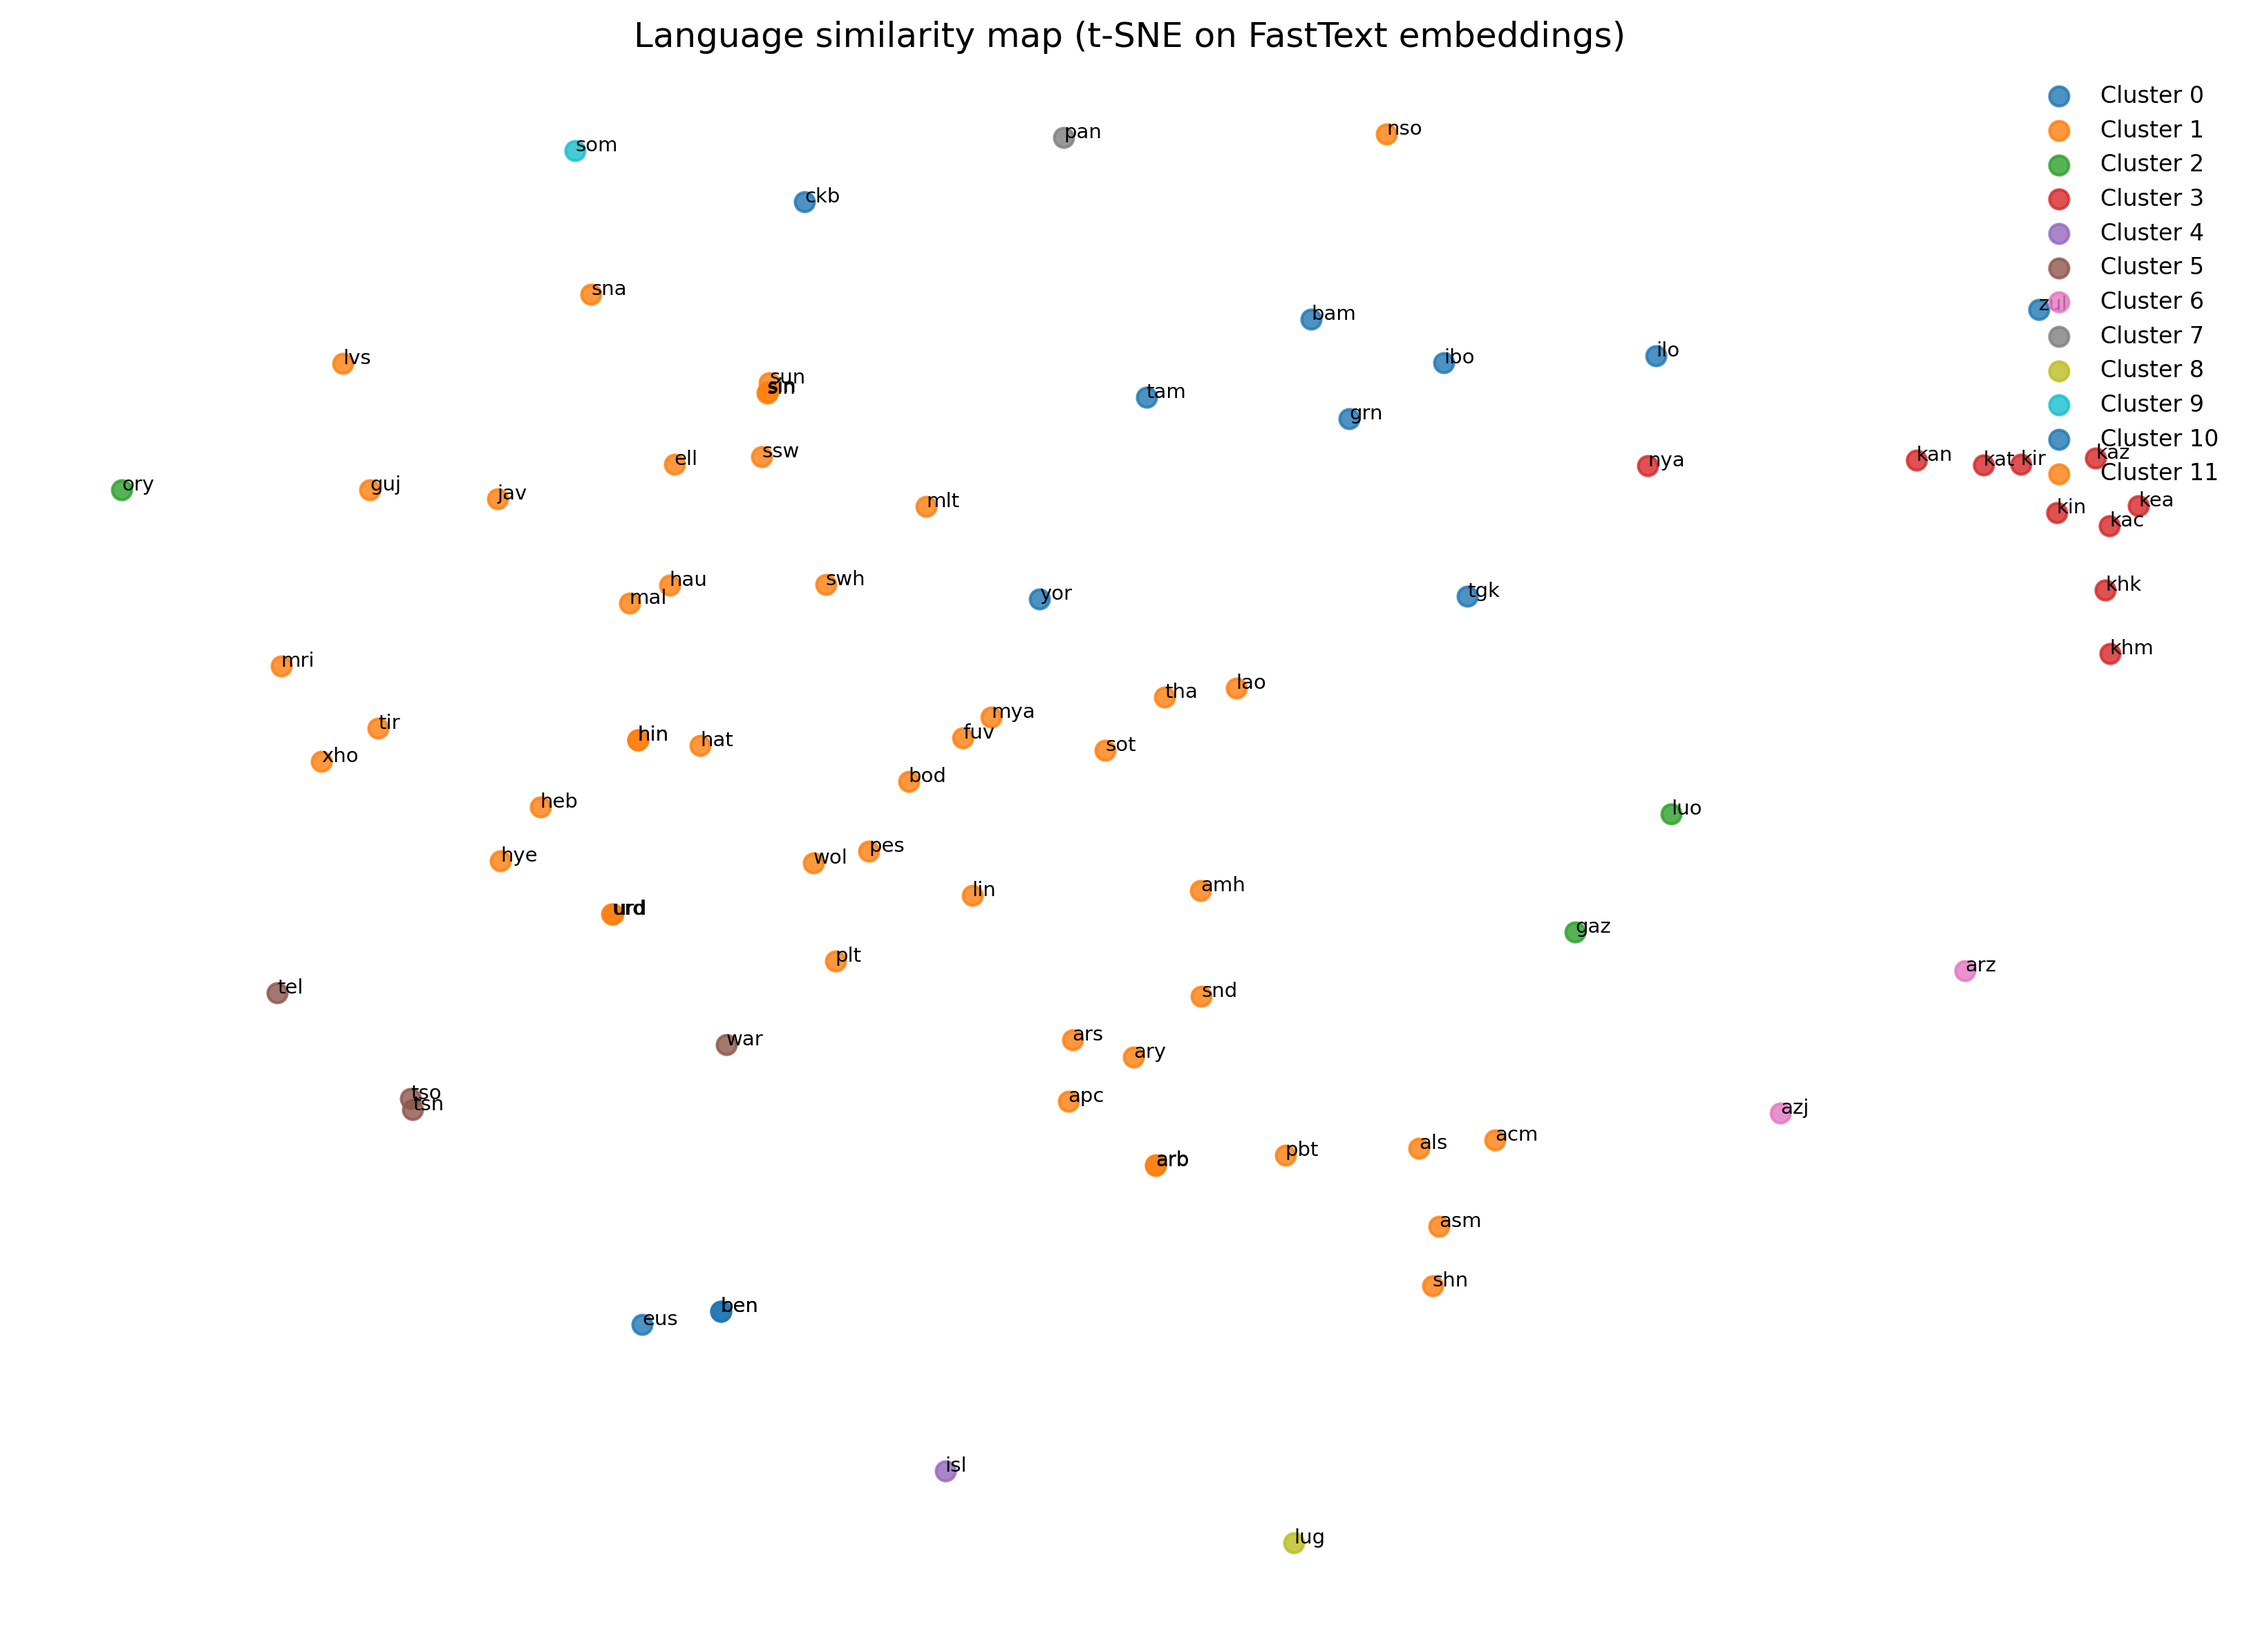
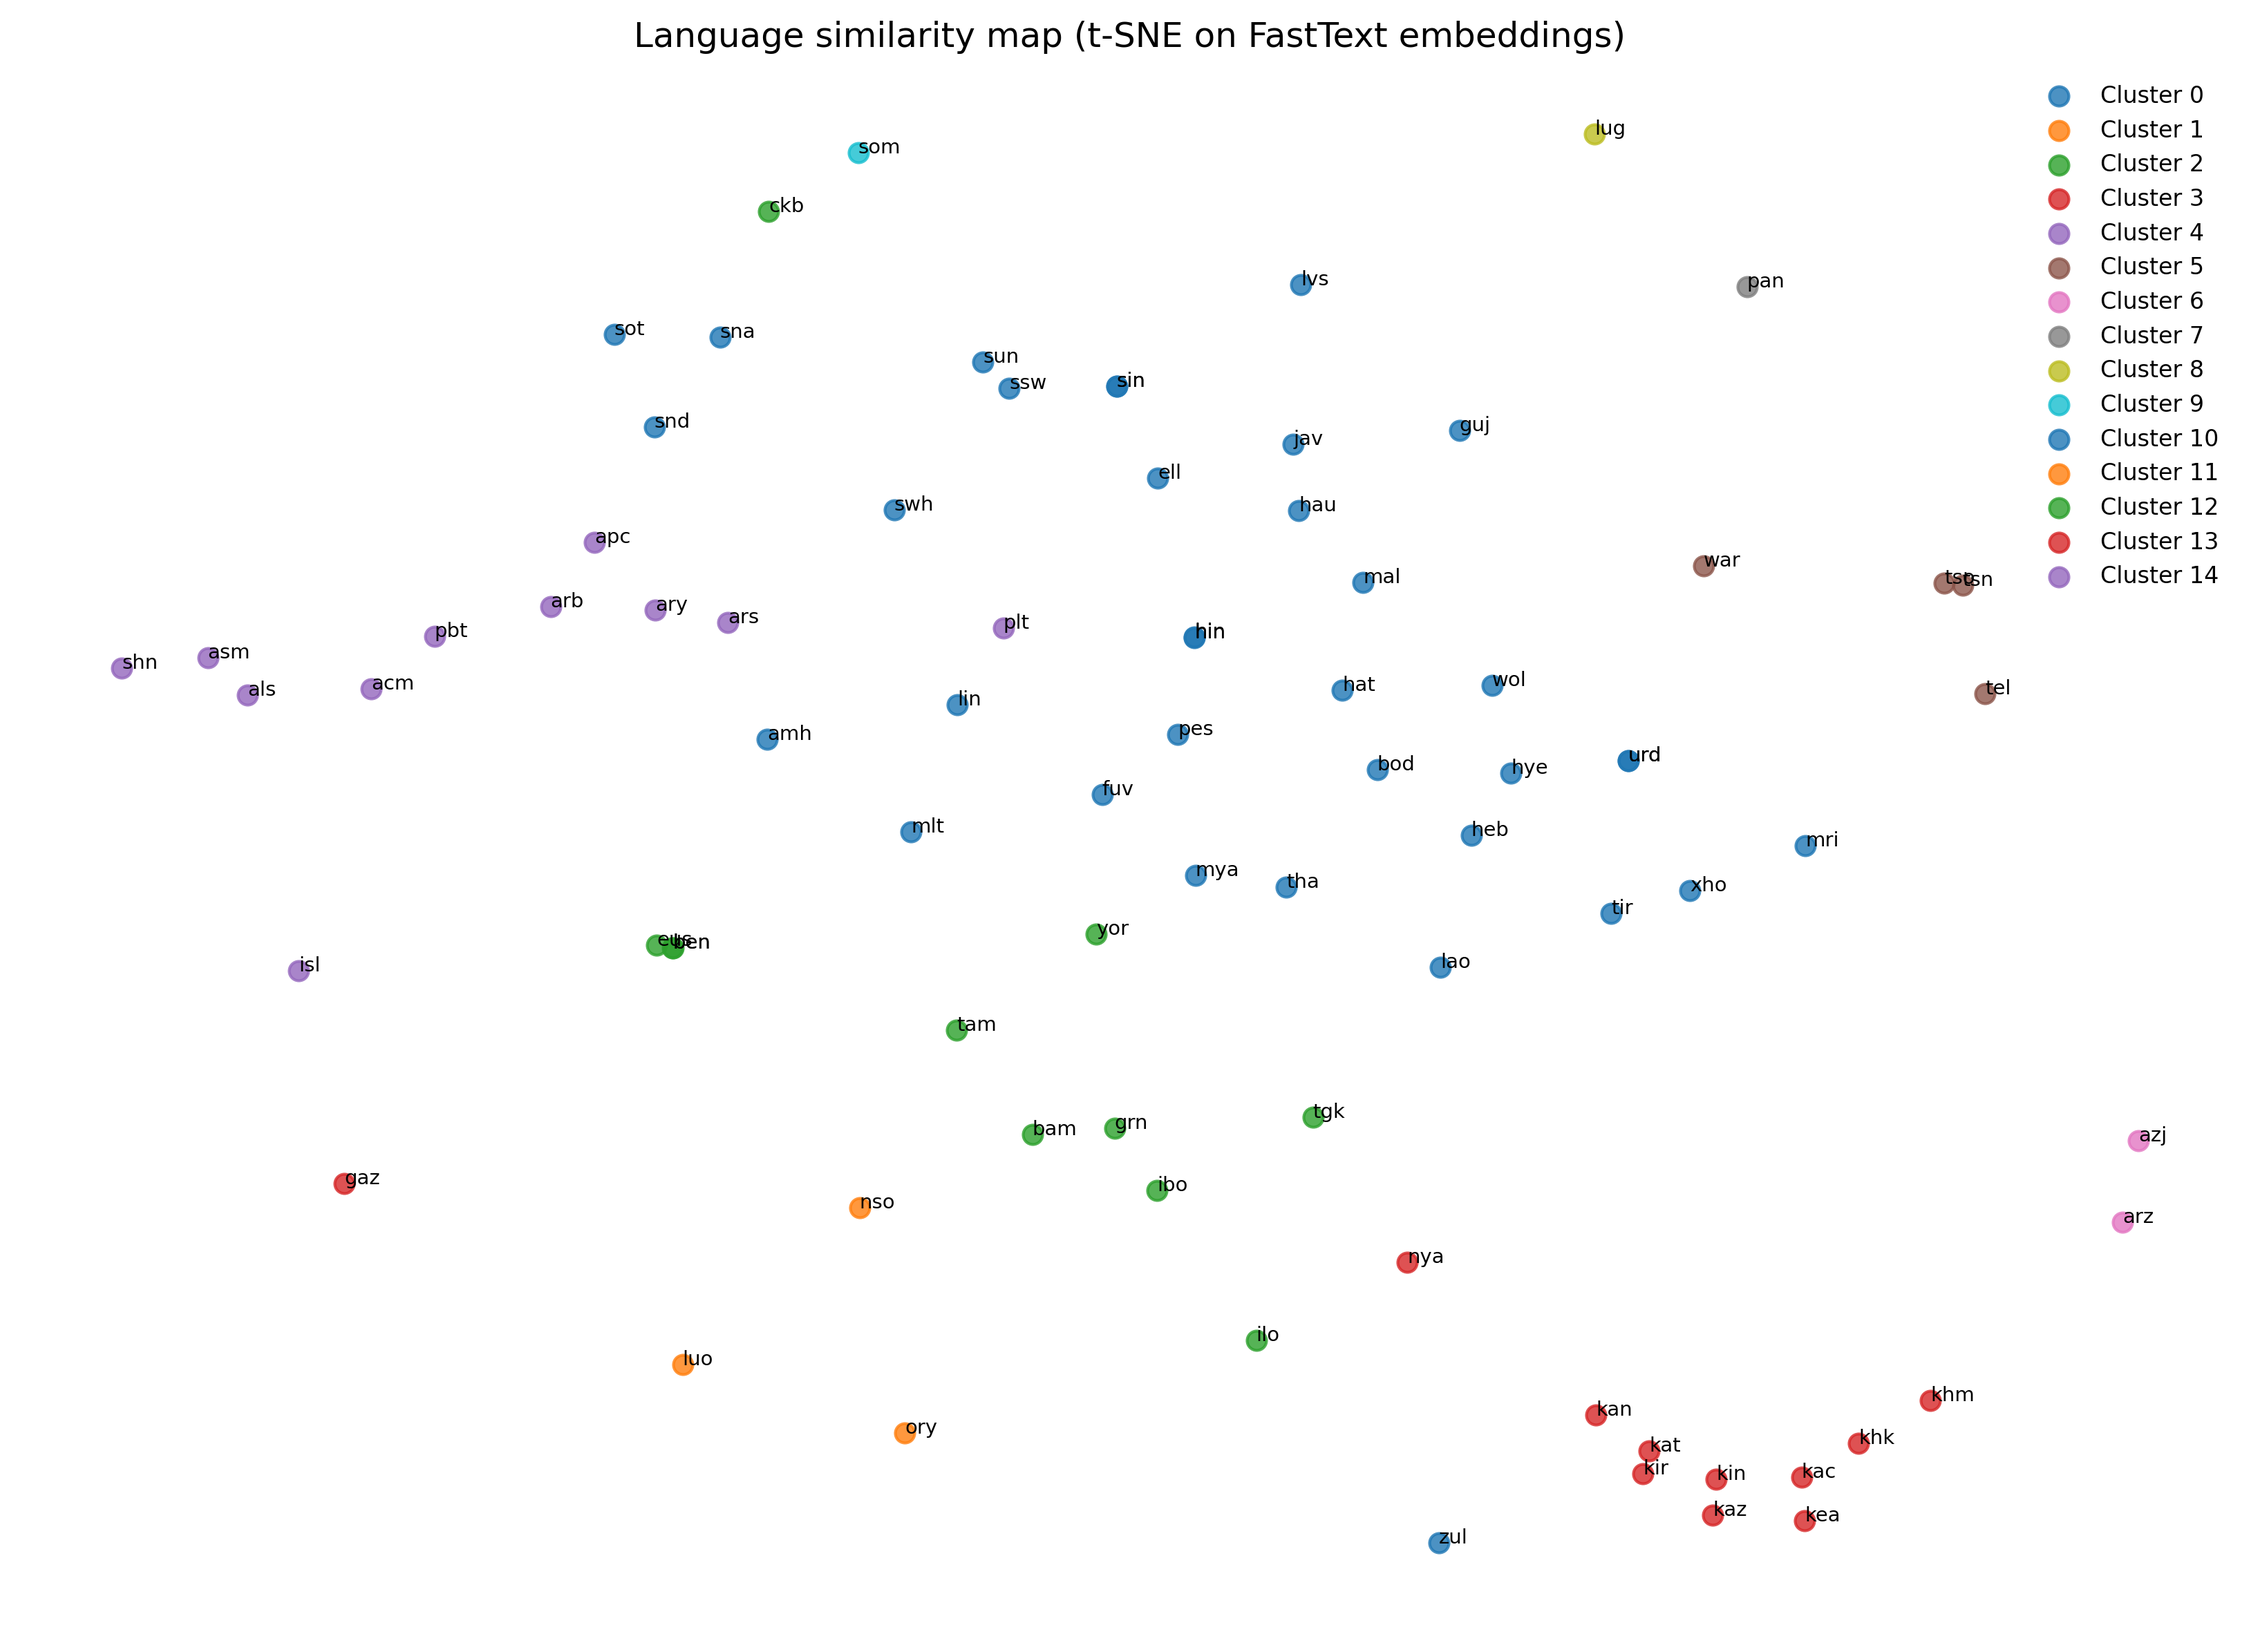
saving progress of ambigious lang clustering results

diff --git a/language_adapters/data_analysis/lang2vec_analysis.py b/language_adapters/data_analysis/lang2vec_analysis.py
@@ -1,16 +1,23 @@
 import numpy as np
 import pandas as pd
 from pathlib import Path
+import matplotlib.pyplot as plt
+from sklearn.preprocessing import StandardScaler
+from sklearn.metrics import silhouette_score
+from sklearn.cluster import AgglomerativeClustering
+from sklearn.manifold import TSNE
 from lang2vec.lang2vec import get_features, available_languages
-from sklearn.metrics.pairwise import cosine_similarity
-
 import logging
+
+# Setup logging
 logging.basicConfig(level=logging.INFO, format="%(message)s")
 log = logging.info
 
+# Setup cache directory
 cache = Path("lang2vec_cache")
 cache.mkdir(exist_ok=True)
 
+# Define language codes
 codes = """kat_Geor yor_Latn lao_Laoo xho_Latn zul_Latn kan_Knda pan_Guru tso_Latn pbt_Arab
 tel_Telu tgk_Cyrl urd_Latn nya_Latn sna_Latn swh_Latn fuv_Latn ibo_Latn jav_Latn
 sin_Latn arb_Latn khm_Khmr ary_Arab bod_Tibt hat_Latn heb_Hebr kac_Latn khk_Cyrl
@@ -20,19 +27,24 @@ eus_Latn shn_Mymr amh_Ethi gaz_Latn hye_Armn kaz_Cyrl lin_Latn sot_Latn war_Latn
 ben_Beng ben_Latn hin_Latn mya_Mymr apc_Arab arz_Arab mal_Latn som_Latn arb_Arab
 asm_Beng bam_Latn ckb_Arab kea_Latn mlt_Latn pes_Arab ars_Arab isl_Latn urd_Arab
 azj_Latn ell_Grek lvs_Latn tha_Thai tir_Ethi als_Latn kir_Cyrl lug_Latn acm_Arab"""
-langs = sorted({c.split('_')[0] for c in codes.split() if c.split('_')[0] in available_languages()})
+
+# Extract language codes
+available = set(available_languages())
+langs = sorted({c.split('_')[0] for c in codes.split() if c.split('_')[0] in available})
 sets = ("syntax_wals", "syntax_sswl")
 
+# Helper to load or cache data
 def load_or_make(fname, maker):
     path = cache / fname
     if path.exists():
-        log(f"from precomputed: {fname}")
+        log(f"Loaded cached: {fname}")
         return pd.read_csv(path, index_col=0)
-    log(f"use cached data: {fname}")
+    log(f"Creating: {fname}")
     df = maker()
     df.to_csv(path)
     return df
 
+# Fetch features
 raw = {}
 for s in sets:
     raw[s] = load_or_make(f"{s}_raw.csv", lambda s=s: pd.DataFrame({
@@ -40,15 +52,62 @@ for s in sets:
         for l in langs
     }).T)
 
-# Combine, clean, impute
+# Combine and clean data
 vecs_raw = load_or_make("combined_raw.csv", lambda: pd.concat(raw.values(), axis=1))
 vecs_raw = vecs_raw.loc[:, ~vecs_raw.isna().all()]
-vecs_imp = load_or_make("combined_imputed.csv", lambda: vecs_raw.fillna(vecs_raw.mean()))
+filtered = vecs_raw[vecs_raw.isna().mean(axis=1) < 0.5]
+filtered = filtered.loc[:, filtered.isna().mean() < 0.5]
+vecs = filtered.fillna(filtered.mean())
 
-# Compute similarity
-sim_df = load_or_make("similarity_cosine.csv", lambda: pd.DataFrame(
-    cosine_similarity(vecs_imp), index=langs, columns=langs))
+# Scale and reduce dimensions for visualization
+scaled = StandardScaler().fit_transform(vecs)
+embedding = TSNE(n_components=2, random_state=42).fit_transform(scaled)
 
-pairs = sim_df.where(~np.eye(len(sim_df), dtype=bool)).stack()
-log("\nTop 15 closest languages:\n" + str(pairs.nlargest(15)))
-log("\nTop 15 most distant languages:\n" + str(pairs.nsmallest(15)))
+# Silhouette analysis to find best k
+silhouette_scores = []
+cluster_range = range(5, 25)
+
+for k in cluster_range:
+    clustering = AgglomerativeClustering(n_clusters=k)
+    labels_k = clustering.fit_predict(scaled)
+    score = silhouette_score(scaled, labels_k)
+    silhouette_scores.append(score)
+    print(f"Silhouette score for {k} clusters: {score:.4f}")
+
+# Plot silhouette scores
+plt.figure(figsize=(8, 5))
+plt.plot(cluster_range, silhouette_scores, marker='o')
+plt.xlabel("Number of Clusters")
+plt.ylabel("Silhouette Score")
+plt.title("Silhouette Scores for Different Cluster Counts")
+plt.grid(True)
+plt.tight_layout()
+plt.savefig("silhouette_scores.png", dpi=300)
+plt.show()
+
+# Choose best cluster count (manual or from max score)
+best_k = cluster_range[np.argmax(silhouette_scores)]
+final_clustering = AgglomerativeClustering(n_clusters=best_k)
+final_labels = final_clustering.fit_predict(scaled)
+
+# Visualize language clusters
+plt.figure(figsize=(10, 6))
+for i in range(best_k):
+    idx = final_labels == i
+    plt.scatter(embedding[idx, 0], embedding[idx, 1], label=f"Cluster {i}", alpha=0.7)
+
+for i, lang in enumerate(vecs.index):
+    plt.text(embedding[i, 0], embedding[i, 1], lang, fontsize=8, alpha=0.6)
+
+plt.title(f"Language Clusters (k={best_k}) Based on Syntactic Features")
+plt.legend()
+plt.tight_layout()
+plt.savefig("language_clusters.png", dpi=300)
+plt.show()
+
+# Print languages in each cluster
+clustered_langs = pd.Series(final_labels, index=vecs.index)
+for cluster_id in sorted(clustered_langs.unique()):
+    langs_in_cluster = clustered_langs[clustered_langs == cluster_id].index.tolist()
+    print(f"\nCluster {cluster_id} ({len(langs_in_cluster)} languages):")
+    print(", ".join(langs_in_cluster))

diff --git a/language_adapters/data_analysis/lang_simiartly_tsne_2d_map.py b/language_adapters/data_analysis/lang_simiartly_tsne_2d_map.py
@@ -6,15 +6,15 @@ from sklearn.manifold import TSNE
 import matplotlib.pyplot as plt
 
 codes_raw = """
-kat_Geor yor_Latn lao_Laoo xho_Latn zul_Latn kan_Knda pan_Guru tso_Latn pbt_Arab
-tel_Telu tgk_Cyrl urd_Latn nya_Latn sna_Latn swh_Latn fuv_Latn ibo_Latn jav_Latn
-sin_Latn arb_Latn khm_Khmr ary_Arab bod_Tibt hat_Latn heb_Hebr kac_Latn khk_Cyrl
+kat_Geor lao_Laoo xho_Latn zul_Latn pan_Guru tso_Latn pbt_Arab
+tel_Telu tgk_Cyrl urd_Latn nya_Latn sna_Latn swh_Latn fuv_Latn
+sin_Latn arb_Latn khm_Khmr ary_Arab bod_Tibt hat_Latn heb_Hebr kac_Latn
 luo_Latn mri_Latn plt_Latn tsn_Latn wol_Latn grn_Latn guj_Gujr nso_Latn sin_Sinh
-sun_Latn tam_Taml hau_Latn hin_Deva ilo_Latn kin_Latn ory_Orya snd_Arab ssw_Latn
-eus_Latn shn_Mymr amh_Ethi gaz_Latn hye_Armn kaz_Cyrl lin_Latn sot_Latn war_Latn
-ben_Beng ben_Latn hin_Latn mya_Mymr apc_Arab arz_Arab mal_Mlym som_Latn arb_Arab
-asm_Beng bam_Latn ckb_Arab kea_Latn mlt_Latn pes_Arab ars_Arab isl_Latn urd_Arab
-azj_Latn ell_Grek lvs_Latn tha_Thai tir_Ethi als_Latn kir_Cyrl lug_Latn acm_Arab
+hau_Latn hin_Deva ilo_Latn kin_Latn ory_Orya snd_Arab ssw_Latn
+eus_Latn shn_Mymr gaz_Latn hye_Armn lin_Latn 
+sot_Latn war_Latn ben_Latn hin_Latn mya_Mymr som_Latn bam_Latn 
+ckb_Arab kea_Latn mlt_Latn pes_Arab isl_Latn urd_Arab azj_Latn
+ell_Grek lvs_Latn tha_Thai als_Latn kir_Cyrl lug_Latn
 """.split()
 tags = [c.replace('_', '-') for c in codes_raw]
 
@@ -32,7 +32,7 @@ def ft_vec(tag):
 
 vecs = np.vstack([ft_vec(t) for t in tags])
 
-n_clusters = 1
+n_clusters = 15
 clust = AgglomerativeClustering(
     n_clusters=n_clusters, metric="cosine", linkage="average"
 )
